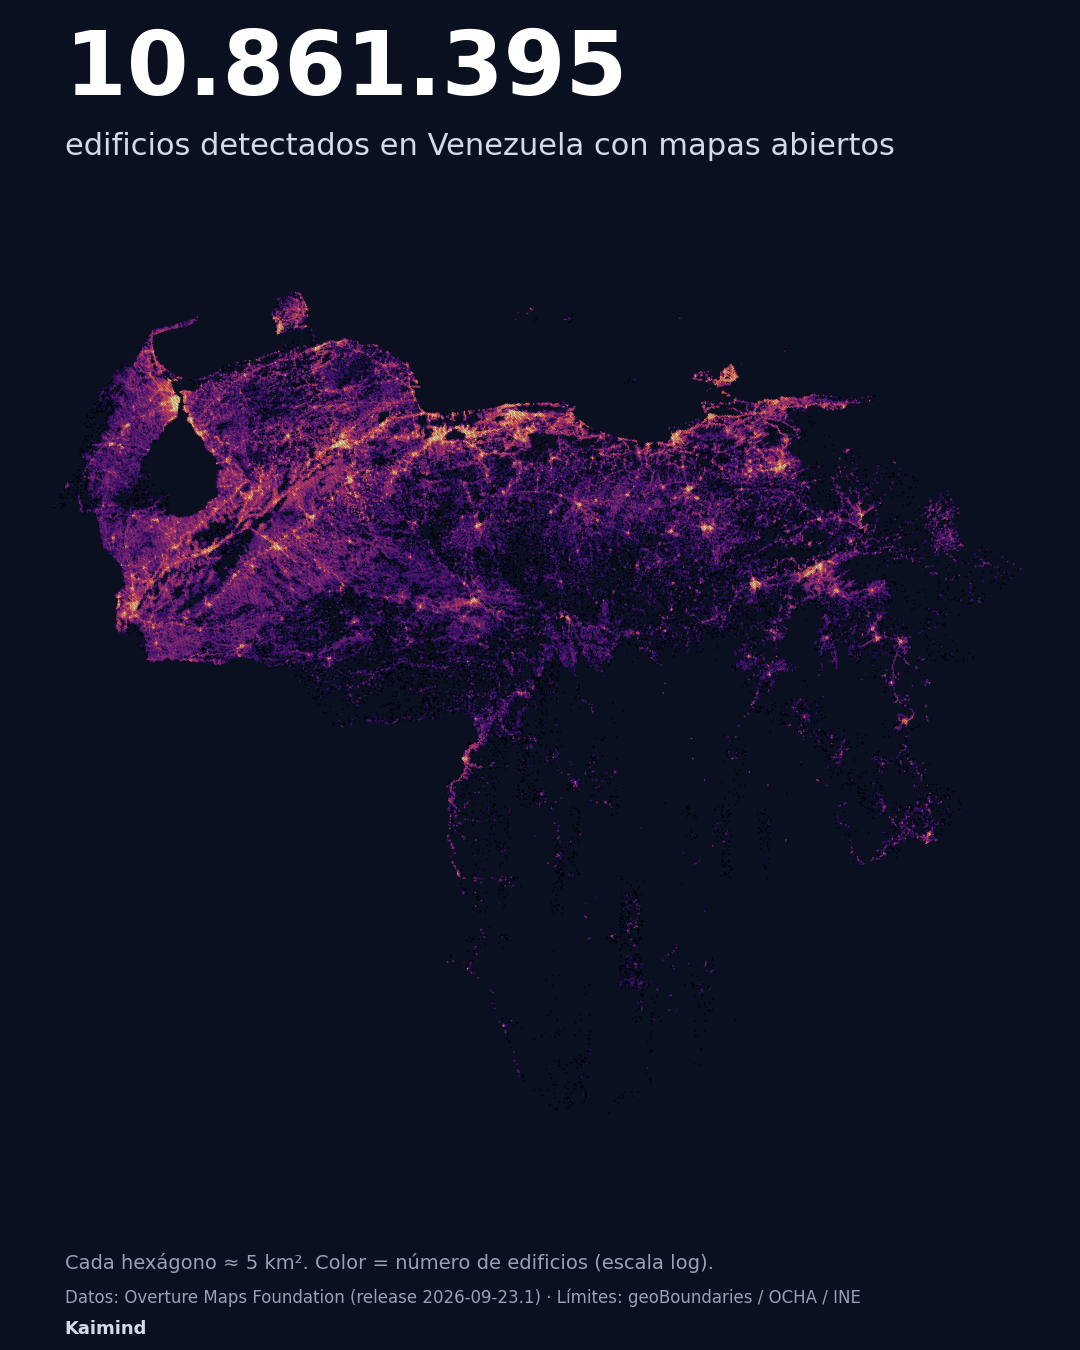
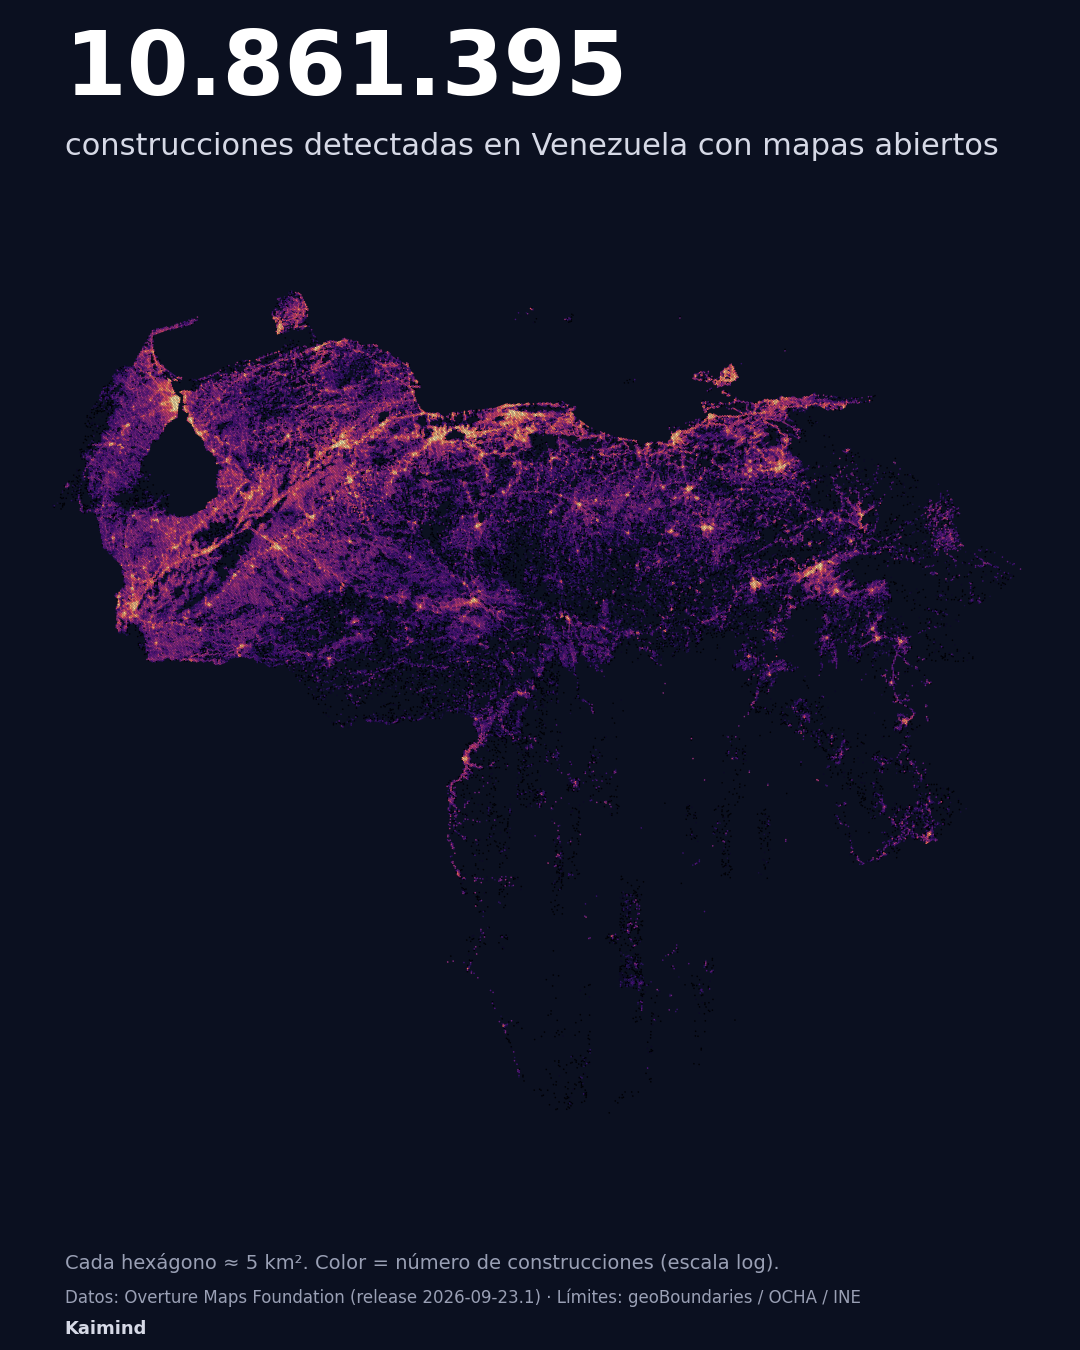
P01: hablar de construcciones en vez de edificios y agregar resumen en inglés
Una casa y una torre cuentan igual (un techo cada una), así que la cifra se presenta como construcciones. Se actualizan los README, el mapa portada y los textos del video, se agrega un resumen en inglés y una versión bilingüe del video (edit.py --lang bi).

Changed region(s): [[0.0611, 0.0933, 0.9167, 0.1244], [0.4889, 0.9333, 0.6722, 0.9644]]

diff --git a/p01-edificios-overture/video/edit.py b/p01-edificios-overture/video/edit.py
@@ -20,17 +20,32 @@ TOP = 96  # debajo de la barra de menús de GeoLibre
 # (inicio, fin, texto, tamaño, y, negrita, color)
 TEXTS = [
     (0.3, 5.5, "10.861.395", 118, TOP + 26, True, "white"),
-    (0.6, 5.5, "edificios detectados en Venezuela", 42, TOP + 168, False, "#e5e7eb"),
+    (0.6, 5.5, "construcciones detectadas en Venezuela", 42, TOP + 168, False, "#e5e7eb"),
     (5.8, 10.6, "Venezuela no tiene censo desde 2011", 44, TOP + 40, True, "white"),
-    (6.1, 10.6, "Los mapas abiertos sí saben dónde está cada edificio", 34, TOP + 104, False, "#e5e7eb"),
-    (12.0, 19.0, "El 92% los dibujó una IA", 56, TOP + 34, True, "white"),
+    (6.1, 10.6, "Los mapas abiertos sí saben dónde está cada construcción", 34, TOP + 104, False, "#e5e7eb"),
+    (12.0, 19.0, "El 92% las dibujó una IA", 56, TOP + 34, True, "white"),
     (19.4, 24.5, "Explóralo tú mismo en GeoLibre", 50, TOP + 34, True, "white"),
     (19.7, 24.5, "Datos y código abiertos · link en comentarios", 34, TOP + 108, False, "#e5e7eb"),
+]
+# Versión bilingüe: inglés arriba (negrita), español abajo, igual que el post.
+TEXTS_BI = [
+    (0.3, 5.5, "10.861.395", 112, TOP + 18, True, "white"),
+    (0.6, 5.5, "rooftops detected in Venezuela", 38, TOP + 150, True, "#f3f4f6"),
+    (0.6, 5.5, "construcciones detectadas en Venezuela", 34, TOP + 200, False, "#d1d5db"),
+    (5.8, 10.6, "No census since 2011", 48, TOP + 28, True, "white"),
+    (6.1, 10.6, "Venezuela no tiene censo desde 2011", 36, TOP + 92, False, "#d1d5db"),
+    (12.0, 19.0, "92% traced by AI", 52, TOP + 22, True, "white"),
+    (12.2, 19.0, "El 92% las trazó una IA", 36, TOP + 86, False, "#d1d5db"),
+    (19.4, 24.5, "Explore it yourself in GeoLibre", 46, TOP + 22, True, "white"),
+    (19.6, 24.5, "Explóralo tú mismo en GeoLibre", 36, TOP + 82, False, "#d1d5db"),
+    (19.8, 24.5, "Link in comments · Link en comentarios", 30, TOP + 136, False, "#e5e7eb"),
 ]
 # Leyenda de fuentes (colores iguales a styles/caracas.style.json)
 LEGEND = [("Microsoft · 48%", "#3b82f6"), ("Google · 44%", "#f59e0b"), ("OpenStreetMap · 8%", "#22c55e")]
 LEGEND_SPAN = (12.4, 19.0)
 BOXES = [(0.3, 5.5, 250), (5.8, 10.6, 170), (12.0, 19.0, 250), (19.4, 24.5, 170)]
+BOXES_BI = [(0.3, 5.5, 270), (5.8, 10.6, 160), (12.0, 19.0, 220), (19.4, 24.5, 190)]
+LEGEND_Y = {"es": TOP + 120, "bi": TOP + 140}
 
 
 def alpha(t0: float, t1: float, fade: float = 0.35) -> str:
@@ -48,19 +63,23 @@ def textfile(i: int, text: str) -> str:
 def main() -> None:
     parser = argparse.ArgumentParser()
     parser.add_argument("--input", default=str(VIDEO / "raw.mp4"))
-    parser.add_argument("--output", default=str(VIDEO / "p01_geolibre.mp4"))
+    parser.add_argument("--lang", choices=["es", "bi"], default="es")
+    parser.add_argument("--output")
     args = parser.parse_args()
+    if args.output is None:
+        args.output = str(VIDEO / ("p01_geolibre.mp4" if args.lang == "es" else "p01_geolibre_bilingue.mp4"))
+    texts, boxes = (TEXTS, BOXES) if args.lang == "es" else (TEXTS_BI, BOXES_BI)
     filters = []
-    for t0, t1, h in BOXES:
+    for t0, t1, h in boxes:
         filters.append(f"drawbox=x=0:y={TOP}:w=iw:h={h}:color=0x0b1020@0.62:t=fill:enable='between(t,{t0},{t1})'")
-    for i, (t0, t1, text, size, y, bold, color) in enumerate(TEXTS):
+    for i, (t0, t1, text, size, y, bold, color) in enumerate(texts):
         font = FONT_BOLD if bold else FONT
         filters.append(
             f"drawtext=fontfile='{font}':textfile='{textfile(i, text)}':fontsize={size}:fontcolor={color}:expansion=none"
             f":x=(w-text_w)/2:y={y}:alpha='{alpha(t0, t1)}'"
         )
     t0, t1 = LEGEND_SPAN
-    y = TOP + 120
+    y = LEGEND_Y[args.lang]
     x0 = 120
     for j, (label, color) in enumerate(LEGEND):
         x = x0 + j * 290

diff --git a/p01-edificios-overture/layers.py b/p01-edificios-overture/layers.py
@@ -70,9 +70,9 @@ def render_png(con: duckdb.DuckDBPyConnection) -> None:
     ax.axis("off")
 
     fig.text(0.06, 0.93, total_txt, color="white", fontsize=64, fontweight="bold")
-    fig.text(0.06, 0.885, "edificios detectados en Venezuela con mapas abiertos",
+    fig.text(0.06, 0.885, "construcciones detectadas en Venezuela con mapas abiertos",
              color="#d6d9e6", fontsize=22)
-    fig.text(0.06, 0.06, "Cada hexágono ≈ 5 km². Color = número de edificios (escala log).",
+    fig.text(0.06, 0.06, "Cada hexágono ≈ 5 km². Color = número de construcciones (escala log).",
              color="#9aa0b5", fontsize=14)
     fig.text(0.06, 0.035, "Datos: Overture Maps Foundation (release 2026-09-23.1) · Límites: geoBoundaries / OCHA / INE",
              color="#9aa0b5", fontsize=12)

diff --git a/p01-edificios-overture/README.md b/p01-edificios-overture/README.md
@@ -1,45 +1,47 @@
-# P01 · ¿Cuántos edificios tiene Venezuela?
+# P01 · ¿Cuántas construcciones tiene Venezuela?
 
-Venezuela no tiene censo desde 2011, pero los mapas abiertos ya contaron sus edificios: **10.861.395** (Overture Maps, release 2026-09-23.1).
+Venezuela no tiene censo desde 2011, pero los mapas abiertos ya contaron sus construcciones: **10.861.395** (Overture Maps, release 2026-09-23.1).
 
-![Mapa de edificios de Venezuela](output/mapa_p01.png)
+> **EN** · Venezuela hasn't had a census since 2011, but open maps have already counted its structures: **10,861,395 rooftops** (Overture Maps, release 2026-09-23.1). 92% were traced by AI in satellite imagery (Microsoft 48%, Google 44%) and 8% by OpenStreetMap volunteers. A house counts as one, and so does a 20-storey tower: this is a count of rooftops, not of dwellings. We queried the 277 GB global dataset straight from the cloud with DuckDB, transferring only ~5 GB, and recorded the video in [GeoLibre](https://geolibre.app). Use the **Open in GeoLibre** link below to explore it in your browser.
+
+![Mapa de construcciones de Venezuela](output/mapa_p01.png)
 
 ## Resultados
 
 | | |
 |---|---|
-| Edificios detectados | **10.861.395** |
-| Detectados por IA | 92,1% (Microsoft 47,9% · Google 44,2%) |
-| Mapeados por voluntarios (OpenStreetMap) | 7,9% |
-| Estado con más edificios | Zulia (1.554.330) |
+| Construcciones detectadas | **10.861.395** |
+| Detectadas por IA | 92,1% (Microsoft 47,9% · Google 44,2%) |
+| Mapeadas por voluntarios (OpenStreetMap) | 7,9% |
+| Estado con más construcciones | Zulia (1.554.330) |
 
 Top 5: Zulia 1.554.330 · Lara 824.152 · Carabobo 751.634 · Miranda 738.954 · Anzoátegui 657.925. Detalle completo en [`output/p01_cifras.json`](output/p01_cifras.json).
 
-## ¿Qué cuenta como edificio?
+## ¿Qué cuenta como construcción?
 
-Cada edificio es **el contorno de un techo** (huella o *footprint*): un polígono que marca una construcción vista desde arriba, en el tema `buildings` de Overture Maps (solo el tipo `building`; no se cuentan las partes de edificio). Viene de una de estas fuentes:
+Cada construcción es **el contorno de un techo** (huella o *footprint*): un polígono que marca una construcción vista desde arriba, en el tema `buildings` de Overture Maps (solo el tipo `building`; no se cuentan las partes de edificio). Viene de una de estas fuentes:
 
-- **Dibujado por voluntarios** de OpenStreetMap: 7,9%.
-- **Detectado por IA en imágenes satelitales:** Microsoft ML Buildings (47,9%, imágenes de Bing de 2014 a 2024) y Google Open Buildings (44,2%).
+- **Dibujada por voluntarios** de OpenStreetMap: 7,9%.
+- **Detectada por IA en imágenes satelitales:** Microsoft ML Buildings (47,9%, imágenes de Bing de 2014 a 2024) y Google Open Buildings (44,2%).
 
-**Incluye:** casas, quintas y ranchos; edificios de apartamentos (**una torre cuenta como uno**, sin importar sus pisos); comercios, industrias, galpones, escuelas e iglesias; y anexos como cocinas aparte, depósitos o techos de estacionamiento (el 19% de los detectados por Google mide menos de 20 m²).
+**Incluye:** casas, quintas y ranchos (**una casa cuenta como una**); edificios de apartamentos (**una torre también cuenta como una**, sin importar sus pisos); comercios, industrias, galpones, escuelas e iglesias; y anexos con techo propio, como cocinas aparte, depósitos o techos de estacionamiento (el 19% de las detectadas por Google mide menos de 20 m²).
 
-**No es:** un conteo de viviendas, de hogares ni de personas, ni una cifra oficial.
+**No es:** un conteo de edificios en altura, de viviendas, de hogares ni de personas, ni una cifra oficial. Solo el 1,4% de las construcciones trae datos de pisos o altura, así que por ahora no se pueden separar casas de edificios.
 
 **Limitaciones:**
 
 - Las imágenes satelitales son de distintos años, así que las construcciones recientes pueden faltar.
-- La IA puede unir techos pegados en zonas muy densas (cuenta de menos) o detectar estructuras que no son edificios (cuenta de más).
-- Cada edificio se asigna al estado que contiene el centro de su techo, dentro de los límites de geoBoundaries (sin la Guayana Esequiba).
+- La IA puede unir techos pegados en zonas muy densas (cuenta de menos) o detectar estructuras que no son construcciones (cuenta de más).
+- Cada construcción se asigna al estado que contiene el centro de su techo, dentro de los límites de geoBoundaries (sin la Guayana Esequiba).
 - No hay duplicados entre fuentes: Overture las fusiona, y en Caracas solo el 0,03% de los techos se solapa con otro.
 
-**Edificio ≠ vivienda.** Frente a las 8.216.443 viviendas del censo 2011 hay 1,32 edificios por vivienda, con un patrón claro: en el Distrito Capital hay 2,4 viviendas por edificio (apartamentos) y en Apure, 2 edificios por vivienda (anexos rurales).
+**Construcción ≠ vivienda.** Frente a las 8.216.443 viviendas del censo 2011 hay 1,32 construcciones por vivienda, con un patrón claro: en el Distrito Capital hay 2,4 viviendas por construcción (torres de apartamentos) y en Apure, 2 construcciones por vivienda (anexos rurales).
 
 ## Ábrelo tú mismo
 
-**[Abrir en GeoLibre](https://web.geolibre.app/?welcome=0&theme=dark&data=https%3A%2F%2Fraw.githubusercontent.com%2FKaimind-Technologies%2Fvenezuela-datos-abiertos%2Fmain%2Fp01-edificios-overture%2Foutput%2Fven_h3_r7.parquet&data=https%3A%2F%2Fraw.githubusercontent.com%2FKaimind-Technologies%2Fvenezuela-datos-abiertos%2Fmain%2Fp01-edificios-overture%2Foutput%2Fcaracas_edificios.parquet&style=https%3A%2F%2Fraw.githubusercontent.com%2FKaimind-Technologies%2Fvenezuela-datos-abiertos%2Fmain%2Fp01-edificios-overture%2Fstyles%2Fh3.style.json&style=https%3A%2F%2Fraw.githubusercontent.com%2FKaimind-Technologies%2Fvenezuela-datos-abiertos%2Fmain%2Fp01-edificios-overture%2Fstyles%2Fcaracas.style.json)**: el país en hexágonos 3D y cada edificio de Caracas coloreado por fuente, en [GeoLibre](https://geolibre.app), un SIG que corre en el navegador. Para el 3D, inclina el mapa con clic derecho + arrastrar.
+**[Abrir en GeoLibre](https://web.geolibre.app/?welcome=0&theme=dark&data=https%3A%2F%2Fraw.githubusercontent.com%2FKaimind-Technologies%2Fvenezuela-datos-abiertos%2Fmain%2Fp01-edificios-overture%2Foutput%2Fven_h3_r7.parquet&data=https%3A%2F%2Fraw.githubusercontent.com%2FKaimind-Technologies%2Fvenezuela-datos-abiertos%2Fmain%2Fp01-edificios-overture%2Foutput%2Fcaracas_edificios.parquet&style=https%3A%2F%2Fraw.githubusercontent.com%2FKaimind-Technologies%2Fvenezuela-datos-abiertos%2Fmain%2Fp01-edificios-overture%2Fstyles%2Fh3.style.json&style=https%3A%2F%2Fraw.githubusercontent.com%2FKaimind-Technologies%2Fvenezuela-datos-abiertos%2Fmain%2Fp01-edificios-overture%2Fstyles%2Fcaracas.style.json)**: el país en hexágonos 3D y cada construcción de Caracas coloreada por fuente, en [GeoLibre](https://geolibre.app), un SIG que corre en el navegador. Para el 3D, inclina el mapa con clic derecho + arrastrar.
 
-También puedes descargar [`output/ven_h3_r7.parquet`](output/ven_h3_r7.parquet) (país en hexágonos de ~5 km²) o [`output/caracas_edificios.parquet`](output/caracas_edificios.parquet) (cada edificio del Distrito Capital) y abrirlos en cualquier SIG. Los estilos están en [`styles/`](styles/).
+También puedes descargar [`output/ven_h3_r7.parquet`](output/ven_h3_r7.parquet) (país en hexágonos de ~5 km²) o [`output/caracas_edificios.parquet`](output/caracas_edificios.parquet) (cada construcción del Distrito Capital) y abrirlos en cualquier SIG. Los estilos están en [`styles/`](styles/).
 
 ## Video
 
@@ -59,8 +61,8 @@ La consulta central, en SQL puro: [`query.sql`](query.sql).
 
 ## Método
 
-- Extracción con DuckDB directo desde S3, filtrando por el `bbox` de cada edificio: el dataset mundial pesa 276,9 GB (512 archivos) y se transfirieron unos 5 GB.
-- Cada edificio se asigna al estado que contiene el centro de su `bbox` (join espacial indexado).
+- Extracción con DuckDB directo desde S3, filtrando por el `bbox` de cada construcción: el dataset mundial pesa 276,9 GB (512 archivos) y se transfirieron unos 5 GB.
+- Cada construcción se asigna al estado que contiene el centro de su `bbox` (join espacial indexado).
 - Validación: correlación 0,87 con las viviendas del censo 2011 por estado; 0,03% de posibles duplicados en Caracas.
 
 Fuentes y licencias: [`../DATA_SOURCES.md`](../DATA_SOURCES.md).

diff --git a/README.md b/README.md
@@ -2,9 +2,11 @@
 
 Una serie de **Kaimind** que explora Venezuela con datos abiertos y herramientas open source. Cada carpeta acompaña una publicación y contiene el código para reproducirla.
 
-| # | Publicación | Carpeta |
+> **EN** · *Venezuela through open data*: a **Kaimind** series exploring Venezuela with open data and open-source tools. Each folder accompanies a post and contains the code to reproduce it.
+
+| # | Publicación / Post | Carpeta / Folder |
 |---|---|---|
-| P01 | ¿Cuántos edificios tiene Venezuela? | [`p01-edificios-overture/`](p01-edificios-overture/) |
+| P01 | ¿Cuántas construcciones tiene Venezuela? / How many structures does Venezuela have? | [`p01-edificios-overture/`](p01-edificios-overture/) |
 
 ## Stack
 
